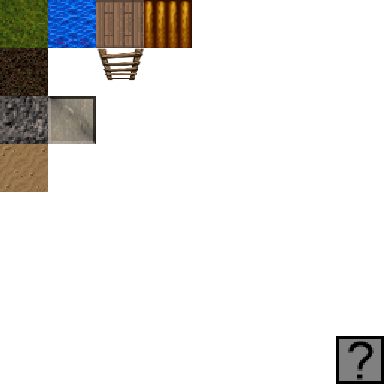
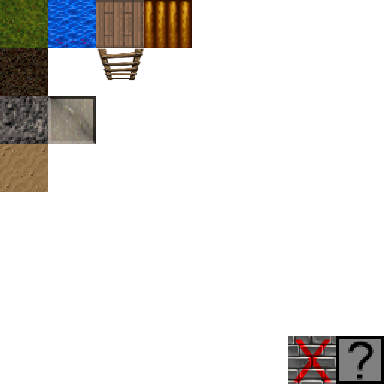
v1.6.9 - Самый нижний уровень карты заполнен "граничными" не разрушаемыми блоками.

Changed region(s): [[0.75, 0.875, 0.875, 1.0]]

diff --git a/MainGame/UnlifeObject/UnlifeObject.cpp b/MainGame/UnlifeObject/UnlifeObject.cpp
@@ -7,25 +7,27 @@ void initializeUnlifeObjects(vector<UnlifeObject> &unlifeObjects, TypeUnlifeObje
 {
 	UnlifeObject addObject;
 
+	int topLevel = 2;
+
 	addObject.setType(typesUnlifeObjects[idUnlifeObject::oakGrow]);
-	addObject.setPosition(4, 12, 1);
+	addObject.setPosition(4, 12, topLevel);
 	unlifeObjects.push_back(addObject);
 
 	///*
 	addObject.setType(typesUnlifeObjects[idUnlifeObject::oakSmall]);
-	addObject.setPosition(8, 12, 1);
+	addObject.setPosition(8, 12, topLevel);
 	unlifeObjects.push_back(addObject);
 
 	addObject.setType(typesUnlifeObjects[idUnlifeObject::oakSeadling]);
-	addObject.setPosition(12, 13, 1);
+	addObject.setPosition(12, 13, topLevel);
 	unlifeObjects.push_back(addObject);
 
 	addObject.setType(typesUnlifeObjects[idUnlifeObject::appleSeadling]);
-	addObject.setPosition(12, 8, 1);
+	addObject.setPosition(12, 8, topLevel);
 	unlifeObjects.push_back(addObject);
 
 	addObject.setType(typesUnlifeObjects[idUnlifeObject::smallStone]);
-	addObject.setPosition(5, 11, 1);
+	addObject.setPosition(5, 11, topLevel);
 	unlifeObjects.push_back(addObject);
 
 	emptyObject.setType(typesUnlifeObjects[idUnlifeObject::empty]);

diff --git a/MainGame/Map/Map.cpp b/MainGame/Map/Map.cpp
@@ -83,9 +83,13 @@ void Field::initializeDataBlocks()
 	coordinateBloks[idBlocks::stoneBrick][1] = BLOCK_SIZE * 2;
 
 
-	charBlocks[idBlocks::woodLadder] = u'\x021';
+	charBlocks[idBlocks::woodLadder] = u'\x018';
 	coordinateBloks[idBlocks::woodLadder][0] = BLOCK_SIZE * 2;
 	coordinateBloks[idBlocks::woodLadder][1] = BLOCK_SIZE;
+
+	charBlocks[idBlocks::borderBlock] = u'\x019';
+	coordinateBloks[idBlocks::borderBlock][0] = BLOCK_SIZE * 6;
+	coordinateBloks[idBlocks::borderBlock][1] = BLOCK_SIZE * 7;
 
 	coordinateBloks[idBlocks::unknow][0] = BLOCK_SIZE * 7;
 	coordinateBloks[idBlocks::unknow][1] = BLOCK_SIZE * 7;

diff --git a/MainGame/GlobalVar.h b/MainGame/GlobalVar.h
@@ -26,6 +26,8 @@ const int LONG_MAP = 25;
 const int WIDTH_MAP = 40 + BORDER1;
 const int HEIGHT_MAP = 4;
 
+const sf::Vector2i CENTER_WORLD = { WIDTH_MAP / 2, LONG_MAP / 2 };
+
 const int NUMBER_COORDINATES = 2;
 
 const int NUMBER_TEXT_STRING = 15;

diff --git a/MainGame/Map/BlocksVar.h b/MainGame/Map/BlocksVar.h
@@ -19,5 +19,6 @@ typedef enum
 	planksBlock,
 	woodLadder,
 	water,
+	borderBlock,
 	amountKnowBlocks
 } idBlocks;
